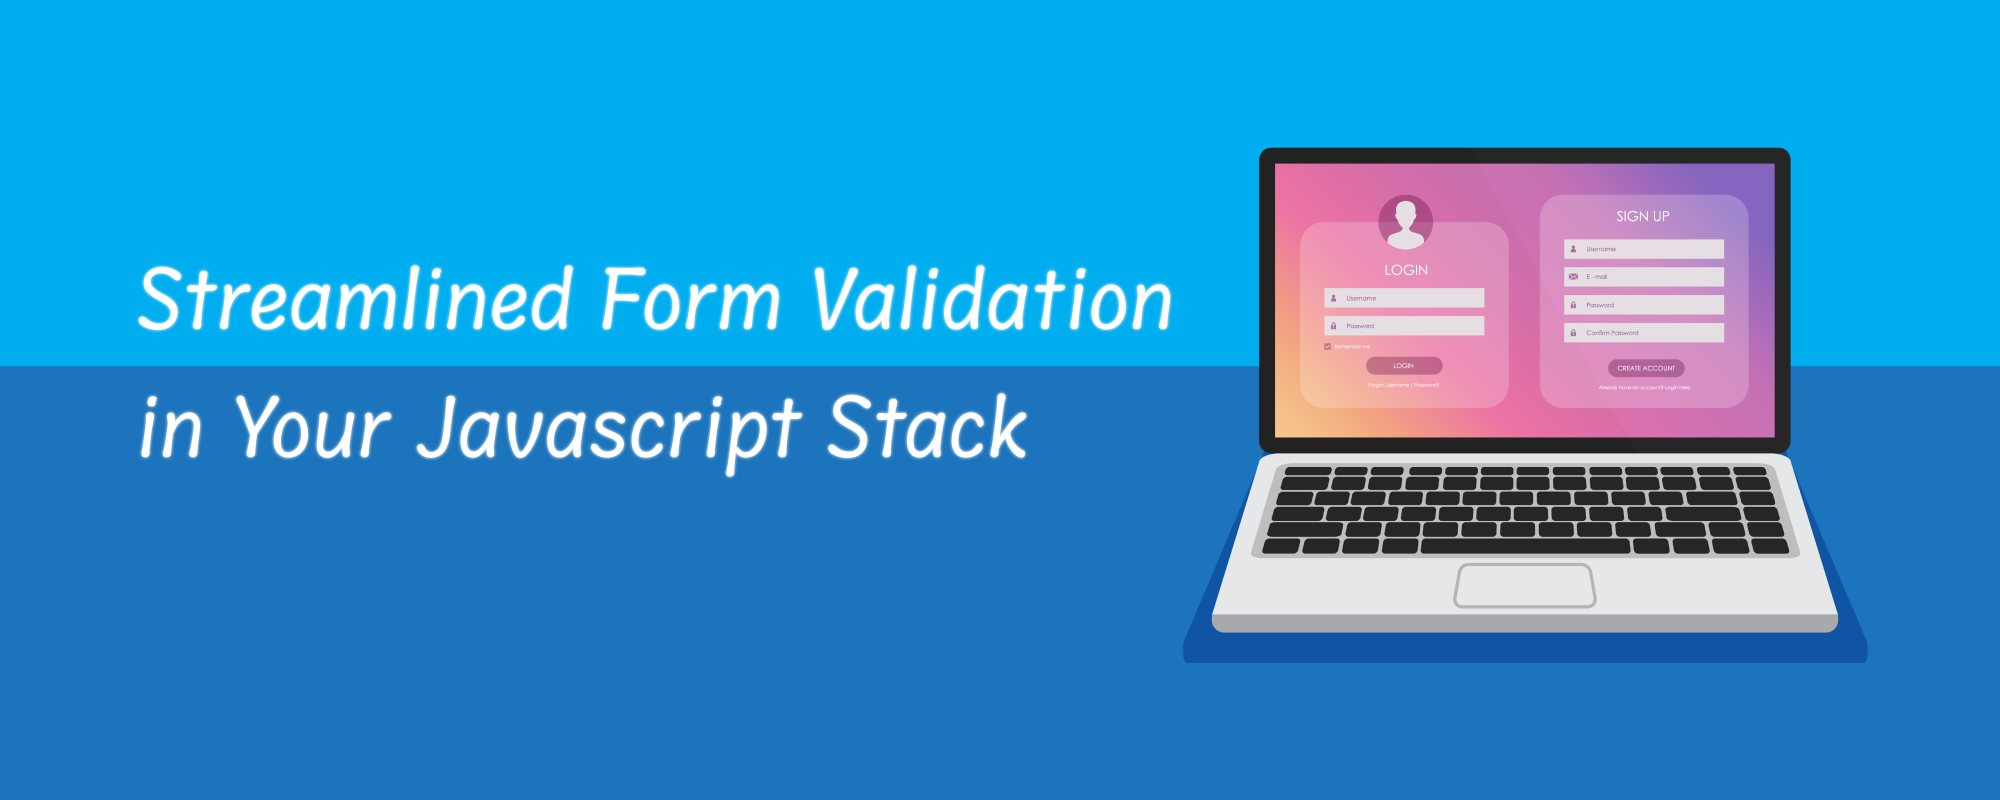
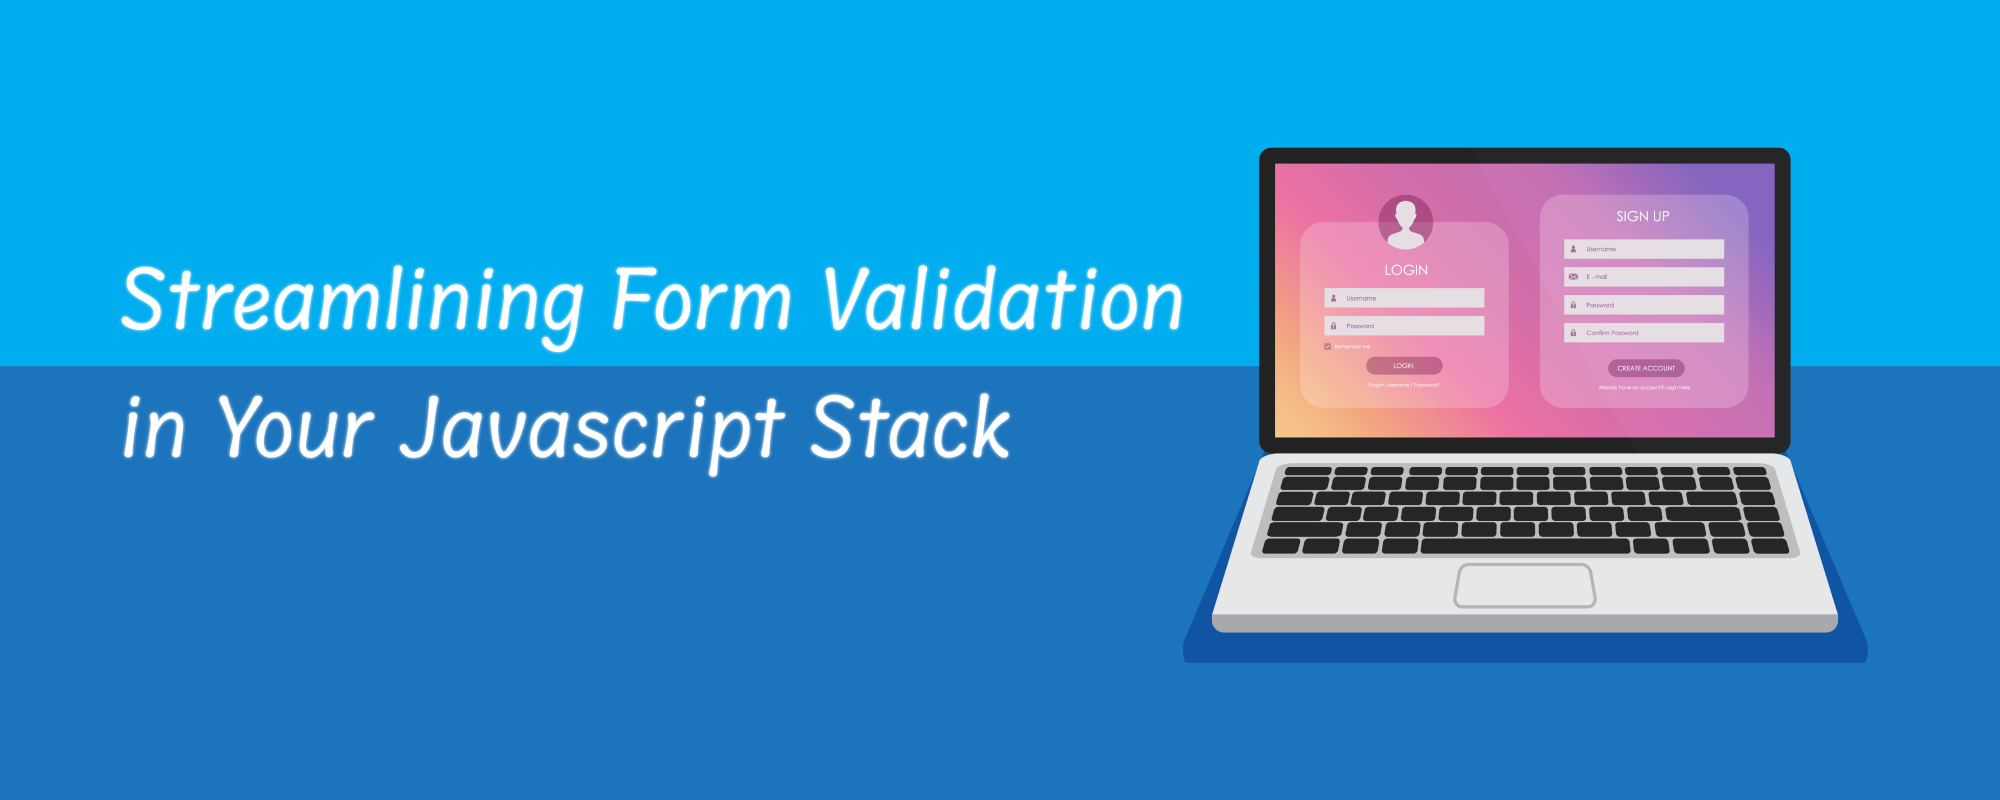
update block title and cover (#153)
* add blog post

* add link

* update title

* update cover

Changed region(s): [[0.062, 0.3125, 0.589, 0.4375], [0.062, 0.4688, 0.527, 0.5938]]

diff --git a/blog/form-validation/index.md b/blog/form-validation/index.md
@@ -6,7 +6,7 @@ image: ./cover.png
 date: 2023-07-04
 ---
 
-# Streamlined Form Validation in Your Javascript Stack
+# Streamlining Form Validation in Your Javascript Stack
 
 ![Cover image](cover.png)
 
